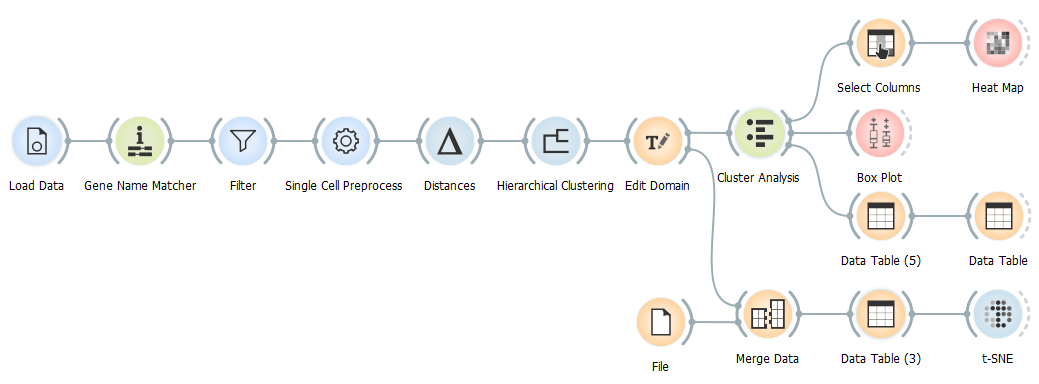
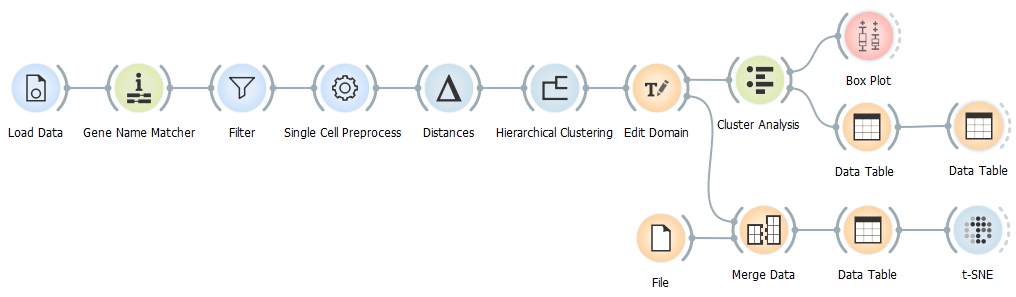
Full text and pictures

diff --git a/content/blog/AML_identification.md b/content/blog/AML_identification.md
@@ -1,38 +1,35 @@
 +++
 draft = false
 type = "blog"
-image = "/blog_img/2019-03-29/"
-thumbImage = "/blog_img/2019-03-29/"
+image = "/blog_img/2019-06-06/coverphoto.png"
+thumbImage = "/blog_img/2019-06-06/coverphoto_small.png"
 date = "2019-06-06"
 title = "Identification of Cell Populations in Healthy Bone Marrow"
 hardLineBreak = true 
-categories = ["marker genes", "tSNE", "box plot"]
+categories = ["marker genes", "tSNE", "box plot", "cell populations", "clustering"]
 joinLines = false
 author = "Iva Černoša"
-shortExcerpt = " " 
-longExcerpt = " " 
+shortExcerpt = "Identify cell populations in healthy human bone marrow and take a look at the putative cell differentiation trajectories." 
+longExcerpt = "We identify cell populations in a dataset of healthy human bone marrow cells from Galen et al. (Cell, 2019) and take a look at the putative cell differentiation trajectories." 
 +++
 
+In order to study diseases such as leukaemia on cell populations level, we first need to characterise a healthy bone marrow cell population. So in this blog we set out to do just that. 
 
-The data from<a href= “https://www.sciencedirect.com/science/article/pii/S0092867419300947”> Galen  <i> et al.</i></a> in available in the GEO database under the accession number <a href= “https://www.ncbi.nlm.nih.gov/geo/query/acc.cgi?acc=GSE116256”>GSE116256</a>. We will be using the data from only one healthy patient <a href= “https://www.ncbi.nlm.nih.gov/geo/query/acc.cgi?acc=GSM3588000”> BM4 </a> and its <a href= https://www.ncbi.nlm.nih.gov/geo/query/acc.cgi?acc=GSM3588001> annotation file </a> since this is by far the biggest nonenriched sample from a healthy individual in this dataset. 
+The data from<a href= “https://www.sciencedirect.com/science/article/pii/S0092867419300947”> Galen  <i> et al.</i>(Cell, 2019)</a> in available in the GEO database under the accession number <a href= “https://www.ncbi.nlm.nih.gov/geo/query/acc.cgi?acc=GSE116256”>GSE116256</a>. We will be using the data from only one healthy patient <a href= “https://www.ncbi.nlm.nih.gov/geo/query/acc.cgi?acc=GSM3588000”> BM4 </a> and its <a href= https://www.ncbi.nlm.nih.gov/geo/query/acc.cgi?acc=GSM3588001> annotation file </a> since this is by far the biggest nonenriched sample from a healthy individual in this dataset. 
 <br>
-
-<!-- popravi tage, naslovno sliko, povzetke,...-->
-<!-- dodaj uvod-->
 
 After loading the data and matching the genes in the dataset to those in databases, we filter out all the genes that appear in less than 10 cells. Besides the usual normalisation, we select 5000 most variable genes. 
 \
 \
-{{% figure src="/blog_img/2019-06-06/workflow_partial1.PNG" width="45%" height="45%" %}}
+{{% figure src="/blog_img/2019-06-06/workflow_partial1.PNG" width="40%" height="40%" %}}
 \
 \
-Since the relationships between the cell clusters is important for this analysis, we use Hierarhical Clustering widget to cluster the data. Firstly, we calculate the distances between the cells and then cluster them with top N set to 15, since we know from the literature that we are looking for 15 cell types. 
+Since the relationships between the cell clusters is important for this analysis, we use Hierarhical Clustering and not Louvian Clustering widget to cluster the data.  Firstly, we calculate the distances between the cells and then cluster them with top N set to 15, since we know from the literature that we are looking for 15 cell types. 
 \
 \
-{{% figure src="/blog_img/2019-06-06/workflow_partial2.PNG" width="75%" height="75%" %}}
+{{% figure src="/blog_img/2019-06-06/workflow_partial2.PNG" width="65%" height="65%" %}}
 \
 \
-<!--mogoče še izpostavi, kako lahko vidiš na grafu, kako so povezane gruče med sabo-->
 We can tackle the identification of the clusters using two different approaches. The first is by identifying the most significant genes in each cluster as described in one of our previous <a href= “https://singlecell.biolab.si/blog/pancreas/ “> blogs</a> and assuming cell types according to marker genes’ functions, the other is using the <a href= https://www.ncbi.nlm.nih.gov/geo/query/acc.cgi?acc=GSM3588001> annotation file </a> provided by <a href= “https://www.sciencedirect.com/science/article/pii/S0092867419300947”> Galen  <i> et al.</i></a>.
 \
 \
@@ -48,39 +45,41 @@ But before we take a closer look at either of the alternatives, let us take a lo
 C4 and C5 are the biggest clusters. This information might come in handy when we try to identify them.
 <br>
 
-What we have also already done in this workflow is identified markers for each cluster with the help of Data Tables (explained in detail in <a href= “https://singlecell.biolab.si/blog/pancreas/“> this blog</a>). With these markers we can classify clusters. For example, <i>CD3D</i> is the most significant gene in cluster 4. It encodes T-cell surface glycoprotein CD3. Similarly <i>MS4A1</i> in the cluster 3 encodes B-lymphocyte antigen CD20.
+What we have also already done in this workflow, is identified markers for each cluster with the help of Data Tables (explained in detail in <a href= “https://singlecell.biolab.si/blog/pancreas/“> this blog</a>). With these markers we can classify clusters. For example, <i>CD3D</i> is the most significant gene in cluster 4. It encodes T-cell surface glycoprotein CD3. Similarly <i>MS4A1</i> in the cluster 3 encodes B-lymphocyte antigen CD20.
 <br>
 
-Next, we can look at how our clusters match up with the markers for cell types found in the article. A straightforward way to do this is to visualise it with Heat Map widget. We have to use Select Columns widget before it to only display the markers.
-<!-- CCl5 je npr. marker za CTL in NK (clustra C1 in C2), CD3G pa večinoma za CTL, torej so C2 CTL. ALi naj raje cel heatmap ven vržem?-->
-\
-\
-{{% figure src="/blog_img/2019-06-06/heatmap_theirmarkers.png" width="95%" height="95%" %}}
-\
-\
 Now that we have matched clusters with cell types, we can use Edit Domain widget to change annotations of the clusters. 
 \
 \
 {{% figure src="/blog_img/2019-06-06/editdomain.PNG" width="95%" height="95%" %}}
 \
 \
-Additionally, we can merge the annotation file provided by Galen  <i> et al.</i></a> with our data and display both bell classifications on t-SNE projection simultaneously. 
-<!-- kako moraš spremeniti anno file, da ga bere-->
+Additionally, we can merge the annotation file provided by Galen  <i> et al.</i></a> with our data and display both cell classifications on t-SNE projection simultaneously. 
+<!-- ali naj še na roko dopišem, kaj so preostale skupine?-->
 \
 \
 {{% figure src="/blog_img/2019-06-06/workflow_final.PNG" width="95%" height="95%" %}}
 \
 \
+To make the annotation file readable to Orange, we need to rename it from <i>GSM3588001_BM4.anno.txt.gz</i> to <i>GSM3588001_BM4.anno.<b>tab</b>.gz</i>. After that we can load it and merge it with our data using Merge Data widget.
+\
+\
+{{% figure src="/blog_img/2019-06-06/mergedata.PNG" width="95%" height="95%" %}}
+\
+\
+Have you noticed that we did not use Cluster Analysis widget as our output for the data we are about to display using t-SNE? That is because it reduces the data and therefore negatively influences our t-SNE visualisation. 
+<br>
+
+Lets check how our clustering and cell identification compares to that of Galen  <i> et al.</i>.
 \
 \
 {{% figure src="/blog_img/2019-06-06/tSNE.png" width="95%" height="95%" %}}
 \
 \
+Apart from some mismatches along the putative cell differentiation trajectories (for example with Progenitor Monocytes and Monocytes), cell types overlap. 
+<br>    
 
-
-<!-- ali naj še na roko dopišem, kaj so preostale skupine?-->
-
-<!-- dodaj zaključek-->
+Thus we have achieved what we undertook; characterised human bone marrow cell population and displayed cell differentiation trajectories on t-SNE projection.
 
 *References* 
 \
